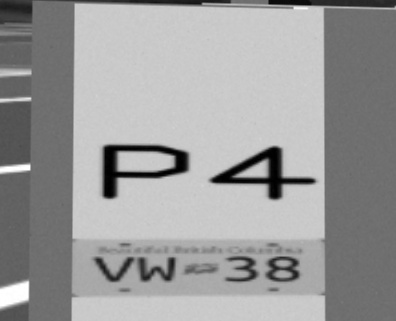
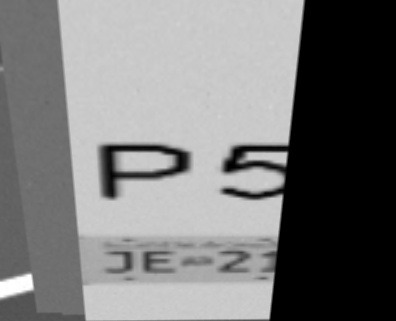
Modified training set, updated honography/cnn interface.

diff --git a/src/mcqueen_controller/src/homography.py b/src/mcqueen_controller/src/homography.py
@@ -29,7 +29,7 @@ class Homography():
         self.bridge = CvBridge()
 
         # Car image references
-        self.template_car_paths = ['/home/fizzer/ros_ws/src/mcqueen_controller/src/Homography_Templates/Car_Templates/p{}.png'.format(x + 1) for x in range(6)]
+        self.template_car_paths = ['/home/fizzer/ros_ws/src/mcqueen_controller/src/Homography_Templates/Car_Templates/p{}.png'.format(x + 1) for x in range(8)]
         self.car_templates = [cv2.imread(path, cv2.IMREAD_GRAYSCALE) for path in self.template_car_paths]
         self.kp_desc_images = [(lambda x: self.sift.detectAndCompute(x, None))(x) for x in self.car_templates]
 
@@ -43,8 +43,8 @@ class Homography():
         self.search_params = {}
         self.flann = cv2.FlannBasedMatcher(self.index_params, self.search_params)
 
-        self.plate_reference = {'2': 2, '3': 3, '4': 4, '5': 5, '6': 6, '1': 7, '7': 8, '8': 8}
-        self.plate_num = 1
+        self.plate_reference = {'2': 1, '3': 2, '4': 3, '5': 4, '6': 5, '1': 6, '7': 7, '8': 7}
+        self.plate_num = 0
     
     
     # Callback function for homography subscriber
@@ -58,7 +58,7 @@ class Homography():
             max_pred, pred_number = self.generate_prediction(processed_number)
 
             if max_pred > 0.95:
-                self.plate_num = self.plate_reference[pred_number]
+                self.plate_num = self.plate_reference[str(pred_number)]
                 print(self.plate_num)
 
 
@@ -164,7 +164,7 @@ class Homography():
 
         res_max = np.amax(res)
 
-        return (res_max, predicted_car)
+        return (res_max, index_pred + 1)
 
 
     def process_img(self, image):

diff --git a/src/cnn_trainer/src/model/car_model.py b/src/cnn_trainer/src/model/car_model.py
@@ -41,7 +41,6 @@ def process_test_pic(my_file):
     # plt.show()
     # res = res.reshape(190,150,1)
     img = img.reshape(img.shape[0], img.shape[1], 1)
-    print(img.shape)
     return img
 
 
@@ -172,8 +171,8 @@ def train_car_model(model, X_dataset, Y_dataset, vs, epochs):
 
     history_conv = model.fit(
         training_dataset,
-        steps_per_epoch=105,
-        batch_size=4,
+        steps_per_epoch=10,
+        batch_size=36,
         epochs=epochs,
         verbose=1,
         validation_data=validation_dataset
@@ -220,8 +219,8 @@ def main():
     NEW_MODEL = True
     TRAIN = True
 
-    EPOCHS = 30
-    VS = 0.2
+    EPOCHS = 100
+    VS = 0.30
 
     imgs, vecs = get_car_datasets()
     X_dataset = np.array(imgs)

diff --git a/src/cnn_trainer/src/plate_generator/plate_generator.py b/src/cnn_trainer/src/plate_generator/plate_generator.py
@@ -21,11 +21,11 @@ PARKING_PATH = os.path.join(PATH,'media','parking')
 my_path = PARKING_PATH
 
 
-for i in range(0, 50):
+for i in range(0, 15):
 
     # number to write to parking identifier
     #id = randint(1,8)
-    id = 1
+    id = 6
 
     # Pick two random letters
     plate_alpha = ""
